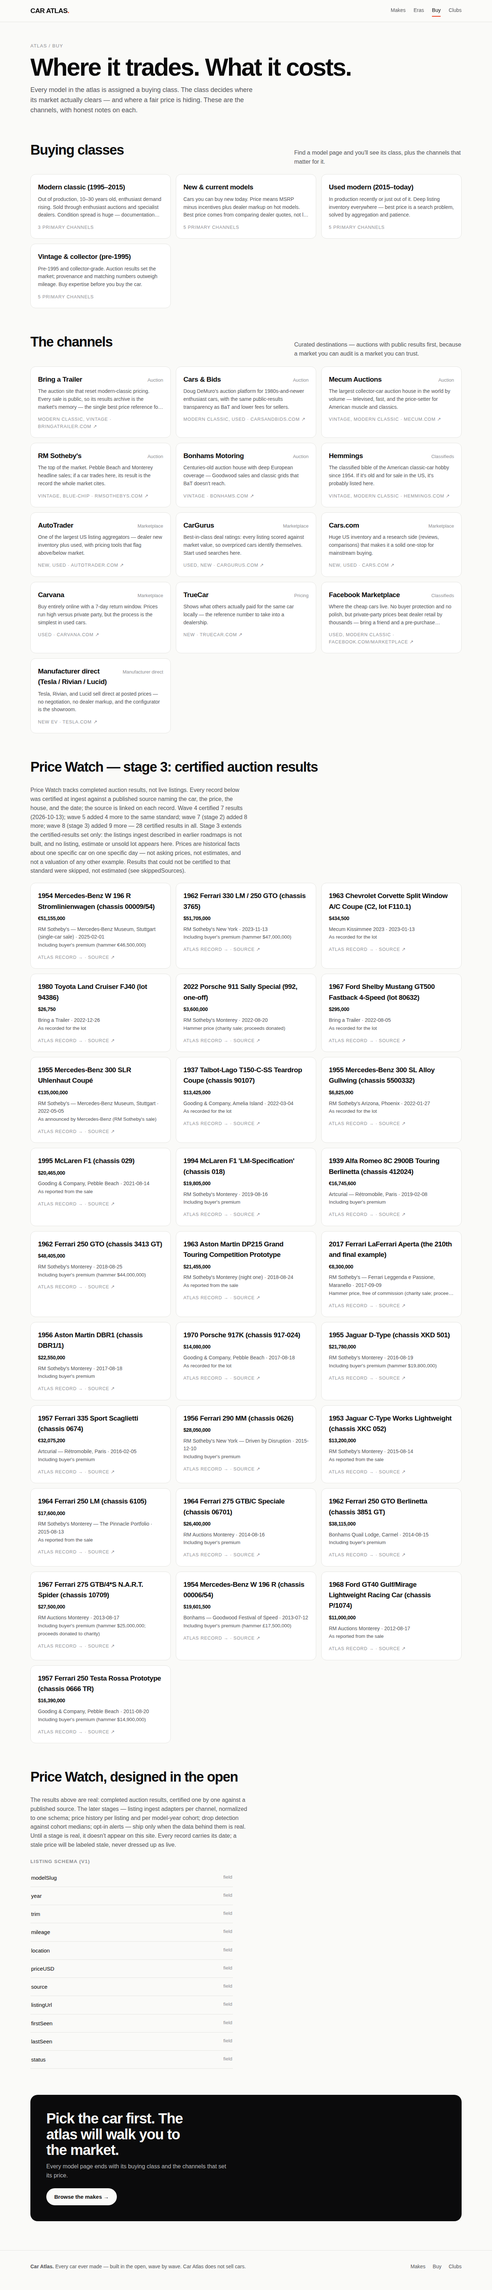
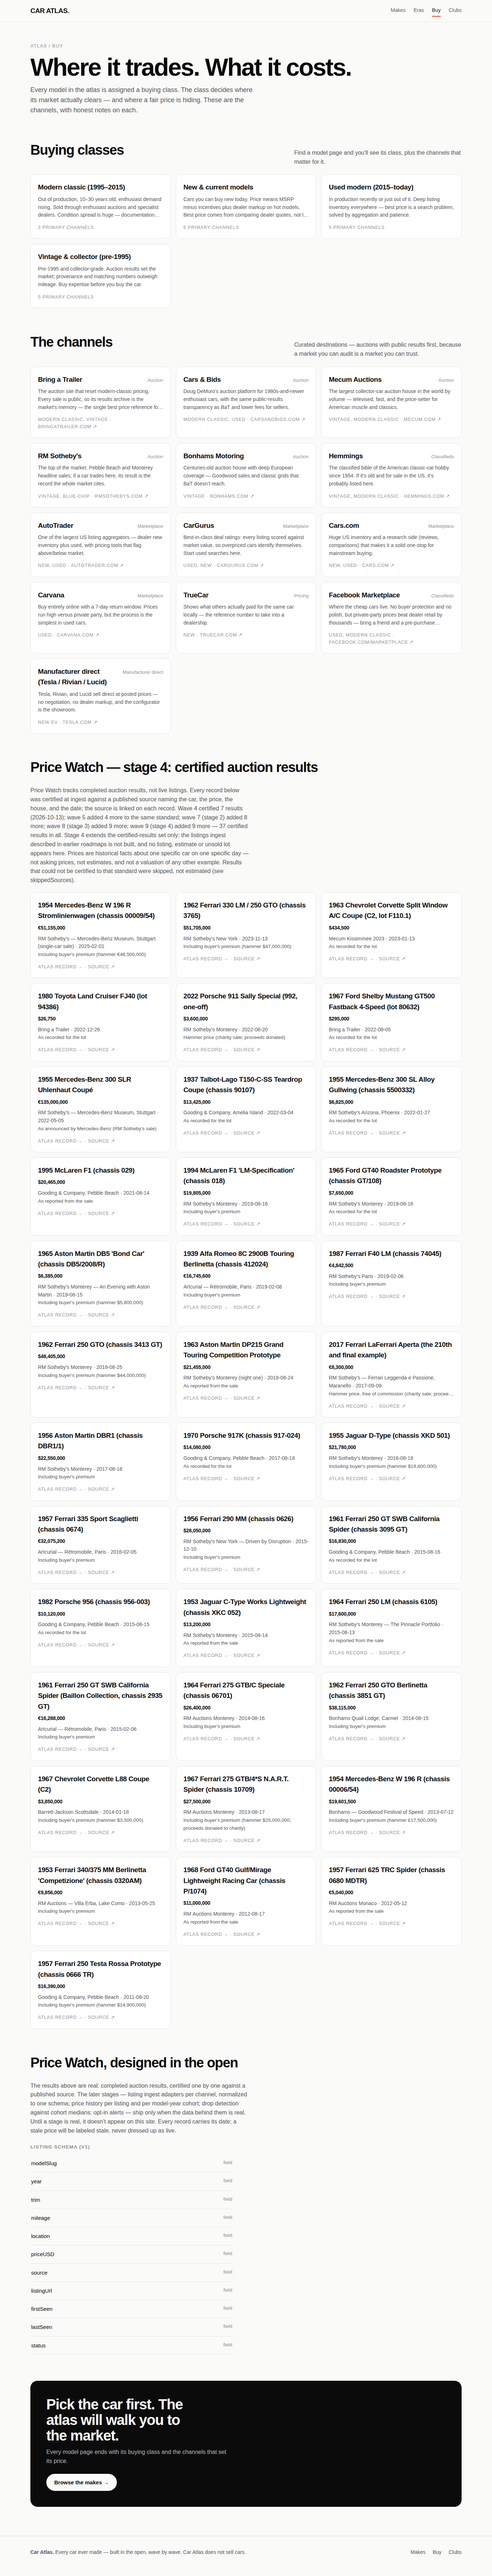
Wave 9 — Price Watch ingest stage 4: certified auction results 28→37 (GT40 Roadster Prototype GT/108, DB5 'Bond Car', F40 LM 74045, 250 GT SWB California Spider 3095 GT, Porsche 956-003, Baillon California Spider 2935 GT, Corvette L88 Coupe, 340/375 MM 0320AM, 625 TRC Spider 0680 MDTR; each sourced 

diff --git a/buy.html b/buy.html
@@ -50,7 +50,7 @@
   </section>
 
   <section class="block">
-    <div class="block-head"><h2>Price Watch — stage 3: certified auction results</h2></div>
+    <div class="block-head"><h2>Price Watch — stage 4: certified auction results</h2></div>
     <p class="mut" id="results-note" style="max-width:68ch">Certified auction results, each linked to its published source.</p>
     <div class="grid two" id="results-grid" style="margin-top:20px"></div>
   </section>

diff --git a/WAVELOG.md b/WAVELOG.md
@@ -1,5 +1,86 @@
 # WAVELOG — Car Atlas
 
+## Wave 9 — Price Watch ingest stage 4: certified results 28 → 37 (2026-10-13)
+
+**Headline (named before building):** Price Watch ingest stage 4 —
+extend the certified-results set beyond the 28 stage-1/2/3 results
+using the stage-1 standard exactly: real auction results only, each
+sourced + day-dated, status sold; a result that cannot be certified
+to that standard is SKIPPED and recorded in the file, never
+approximated or misattributed.
+
+- **Price Watch stage 4:** **28 → 37 certified results**, each
+  certified at ingest on 2026-10-13 against a published source
+  naming car, price, house and day: the 1965 Ford GT40 Roadster
+  Prototype, chassis GT/108 ($7,650,000, RM Sotheby's Monterey,
+  2019-08-16); the 1965 Aston Martin DB5 'Bond Car', chassis
+  DB5/2008/R ($6,385,000 incl. premium, RM Sotheby's Monterey —
+  An Evening with Aston Martin, 2019-08-15); the 1987 Ferrari
+  F40 LM, chassis 74045 (€4,842,500 incl. premium, RM Sotheby's
+  Paris, 2019-02-06); the 1961 Ferrari 250 GT SWB California
+  Spider, chassis 3095 GT ($16,830,000, Gooding & Company Pebble
+  Beach, 2015-08-16); the 1982 Porsche 956, chassis 956-003
+  ($10,120,000, Gooding & Company Pebble Beach, 2015-08-15);
+  the 1961 Ferrari 250 GT SWB California Spider (Baillon
+  Collection), chassis 2935 GT (€16,288,000 incl. premium,
+  Artcurial Rétromobile Paris, lot 59, 2015-02-06); the 1967
+  Chevrolet Corvette L88 Coupe ($3,850,000 incl. premium,
+  Barrett-Jackson Scottsdale, 2014-01-18 — the stage's one new
+  model-level link, `modelSlug: corvette`); the 1953 Ferrari
+  340/375 MM Berlinetta 'Competizione', chassis 0320AM
+  (€9,856,000 incl. premium, RM Auctions Villa Erba, 2013-05-25);
+  the 1957 Ferrari 625 TRC Spider, chassis 0680 MDTR
+  (€5,040,000, RM Auctions Monaco, 2012-05-12). The other eight
+  carry `modelSlug: null` — the atlas has no model records for
+  them, and none was invented; they link at make level, as the
+  earlier GTO/DBR1 records do. Results stay ordered newest first
+  and render on the Buy page (verified: 37 tiles, desktop +
+  mobile; the Corvette model page now shows its L88 result live).
+- **Skipped, recorded in the file itself (1 new;
+  `skippedSources` 8 → 9):** the 1929 Bentley 4½-Litre
+  Supercharged 'Blower' No.1 (£5,042,000 incl. premium, Bonhams,
+  Goodwood Festival of Speed, June 2012) — car, price, house and
+  sale all published, but the atlas carries no Bentley marque
+  record; skipped rather than misattributed (the CSX 2000
+  precedent, applied exactly).
+- **What stage 4 is not:** the listings ingest + cron parked in
+  earlier roadmaps is still not built — it still needs a deploy
+  decision and its own free-tier audit. Stage 4 here is results
+  ingest only: still a static file, no function, no cron, no
+  external call. The file's `stage` field, the Buy page heading,
+  `buying.json`'s new `stage4` note, `API.md`, `GO_LIVE.md`,
+  `LIVE_CHECKLIST.md`, `COVERAGE.md` and `llms.txt` all say so in
+  the same words; counts everywhere re-derived from the data
+  (37 results; 59 / 257 / 469 / 46 unchanged).
+- **Regression: VP-0003 holds.** Build passes (schema + counts +
+  price-watch source check: "37 certified auction results";
+  59 / 257 / 469 unchanged) and re-bakes idempotently; llms
+  checker **PASS — 0 errors, 0 warnings** (17/17 targets).
+  Render checks (headless Chromium, ThreadingHTTPServer, fresh
+  browser): the Buy page renders all 37 results with zero page
+  errors (desktop + mobile; screenshots refreshed in repo and
+  archived at `~/workspace/progress-archive/car-atlas/rotation-018/`);
+  one cold load each of the 911 and the Corvette rendered the
+  full live record (one `<h1>` each, zero page errors).
+- **Parked decisions (unchanged):** (1) a dedicated Ferrari
+  250 GTO model record — the photo and the make-level auction
+  results sit at make level until the owner calls it; (2) the
+  listings-ingest / cron form of Price Watch — needs a deploy
+  decision and its own free-tier audit; (3) a sitemap — lands
+  with GO_LIVE step 5.
+
+### Next waves (planned)
+
+- Living-makes breadth from the COVERAGE list (Bentley, Bugatti,
+  Genesis, MINI, Mitsubishi, Rivian, Rolls-Royce, and the rest) —
+  Bentley's arrival would also unblock the stage-4 Blower skip.
+- Generation depth for the wave-2/3 models (the wave-4 icon
+  treatment, extended).
+- Remaining historic marques from the COVERAGE list (Marlin, MG
+  pre-SAIC lineage, Morgan, Opel, Saturn, Vauxhall).
+- Price Watch: further certified results to the same standard as
+  sources allow; listings ingest only alongside a deploy decision.
+
 ## Wave 8 — Price Watch ingest stage 3: certified results 19 → 28 (2026-10-13)
 
 **Headline (named before building):** Price Watch ingest stage 3 —

diff --git a/COVERAGE.md b/COVERAGE.md
@@ -78,13 +78,15 @@ rotary, and hundreds more).
 
 **Buying layer:** Price Watch stage 1 shipped in wave 4 and grew
 in wave 5; stage 2 (wave 7) extended the certified set to
-19 auction results, and stage 3 (wave 8) extended it again to
-28 auction results in
+19 auction results, stage 3 (wave 8) extended it again to
+28 auction results, and stage 4 (wave 9) extended it again to
+37 auction results in
 `data/v1/price-watch.json`, each with its published source, and
 recorded further skips in the file (an Alfa Romeo 8C 2900B
 whose sale day sources do not pin, the first Shelby Cobra,
 which has no marque record here, and a Ferrari 250 GT SWB
-California Spider whose sale day sources do not pin). Still planned: listings ingest adapters for
+California Spider whose sale day sources do not pin, and a
+Bentley Blower, which has no marque record here). Still planned: listings ingest adapters for
 the channels in `buying.json` and cohort medians computed from
 certified records only.
 

diff --git a/API.md b/API.md
@@ -20,10 +20,10 @@ because the dataset changes in waves, not minutes.
 | `GET /api/search` | `q` | ranked make/model matches (server twin of the client instant search) |
 | `GET /api/clubs` | `region`, `marque` (optional) | filtered club registry |
 
-## Price Watch (stages 1–3 shipped — still not an endpoint)
+## Price Watch (stages 1–4 shipped — still not an endpoint)
 
 The results file is real and deliberately static: `data/v1/price-watch.json`
-holds 28 certified auction results (car, price, currency, basis,
+holds 37 certified auction results (car, price, currency, basis,
 house/event, sale date, linked published source), rendered on the
 Buy page and on the matching model pages. No function serves it —
 the static file is the ingest. The listing stages remain design:

diff --git a/GO_LIVE.md b/GO_LIVE.md
@@ -55,8 +55,8 @@ release track must never be improvised.
   `maxDuration` ceiling.
 - First degradation point: cache-busting `/api/search` traffic —
   it degrades the API only, never the static site.
-- **Price Watch stays inside this posture.** Stages 1–3 (waves 4–8)
-  are a static file, `data/v1/price-watch.json` (28 certified
+- **Price Watch stays inside this posture.** Stages 1–4 (waves 4–9)
+  are a static file, `data/v1/price-watch.json` (37 certified
   results) — no function, no cron, no external service. Any future ingest cron gets its own explicit
   `vercel.json` entry and its own audit line here *before* it ships;
   no stage may add a paid service.

diff --git a/LIVE_CHECKLIST.md b/LIVE_CHECKLIST.md
@@ -139,6 +139,10 @@ a conversation.
   same static file to 28 certified results (wave 8 added 9). Still
   no function, no cron, no external call — the audit above is
   unchanged.
+- **Wave-9 addendum (2026-10-13):** Price Watch stage 4 extended the
+  same static file to 37 certified results (wave 9 added 9). Still
+  no function, no cron, no external call — the audit above is
+  unchanged.
 - **Photography:** 49 sourced photos (~13 MB) now live under
   `assets/photos/`, plus `assets/og-card.png`. They are lazy-loaded
   (`loading="lazy"`), served under the existing `/assets/*` SWR
